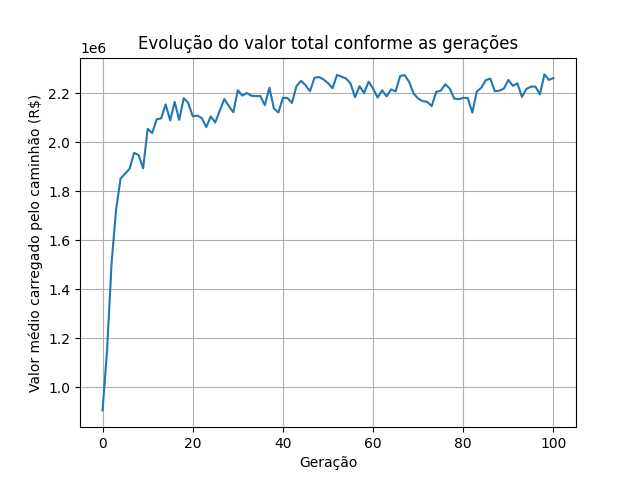
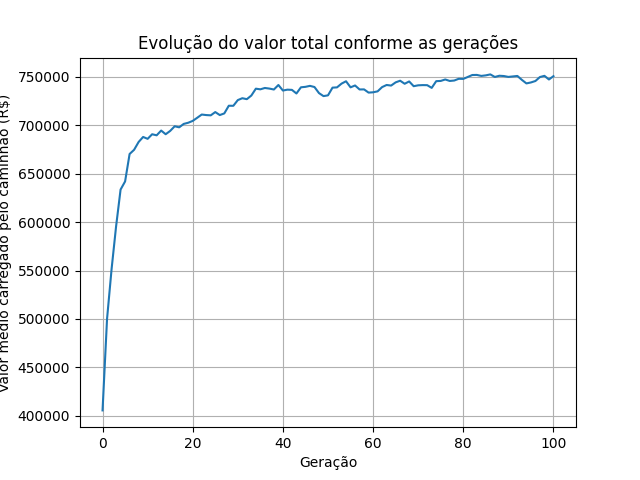
Melhorias

diff --git a/tabela_valortotal.html b/tabela_valortotal.html
@@ -1,1 +1,1 @@
-<script src="https://cdn.jsdelivr.net/npm/bootstrap@5.0.1/dist/js/bootstrap.bundle.min.js" integrity="sha384-gtEjrD/SeCtmISkJkNUaaKMoLD0//ElJ19smozuHV6z3Iehds+3Ulb9Bn9Plx0x4" crossorigin="anonymous"></script><link href="https://cdn.jsdelivr.net/npm/bootstrap@5.0.1/dist/css/bootstrap.min.css" rel="stylesheet" integrity="sha384-+0n0xVW2eSR5OomGNYDnhzAbDsOXxcvSN1TPprVMTNDbiYZCxYbOOl7+AMvyTG2x" crossorigin="anonymous"><table style="width: 100%;"><thead><tr><th>Valor Total da Carga</th></tr></thead><tbody><tr><td>R$ 2.310.000,00</td></tr></tbody></table>
+<script src="https://cdn.jsdelivr.net/npm/bootstrap@5.0.1/dist/js/bootstrap.bundle.min.js" integrity="sha384-gtEjrD/SeCtmISkJkNUaaKMoLD0//ElJ19smozuHV6z3Iehds+3Ulb9Bn9Plx0x4" crossorigin="anonymous"></script><link href="https://cdn.jsdelivr.net/npm/bootstrap@5.0.1/dist/css/bootstrap.min.css" rel="stylesheet" integrity="sha384-+0n0xVW2eSR5OomGNYDnhzAbDsOXxcvSN1TPprVMTNDbiYZCxYbOOl7+AMvyTG2x" crossorigin="anonymous"><table style="width: 100%;"><thead><tr><th>Valor Total da Carga</th><th>Peso Total da Carga:</th></tr></thead><tbody><tr><td>R$ 769.035,00</td><td>3778.3</td></tr></tbody></table>

diff --git a/auxiliar.py b/auxiliar.py
@@ -6,13 +6,30 @@ import locale
 def instanciaItens() -> list:
     itens = []
 
-    itens.append(Item(nome="Escultura leao", peso=400, valor=1))
-    itens.append(Item(nome="Escultura cisne", peso=700, valor=10000))
-    itens.append(Item(nome="Escultura cristo", peso=2000, valor=500000))
-    itens.append(Item(nome="Escultura cristo menor", peso=1000, valor=300000))
-    itens.append(Item(nome="Escultura teste", peso=2000, valor=1000000))
-    itens.append(Item(nome="Escultura vinicius finger", peso=100, valor=500000))
-    itens.append(Item(nome="Escultura vinicius finger 2", peso=100, valor=500000))
+    itens.append(Item(nome="Cadeira", peso=15, valor=1500))
+    itens.append(Item(nome="Celular top", peso=0.8, valor=8700))
+    itens.append(Item(nome="Notebook", peso=3, valor=4000))
+    itens.append(Item(nome="Piano Yamaha", peso=250, valor=250000))
+    itens.append(Item(nome="Piano Roch", peso=250, valor=250000))
+    itens.append(Item(nome="Televisão 50 pol.", peso=12, valor=3000))
+    itens.append(Item(nome="Televisão 22 pol.", peso=8, valor=999))
+    itens.append(Item(nome="Cama king", peso=100, valor=20000))
+    itens.append(Item(nome="Sofá", peso=120, valor=7000))
+    itens.append(Item(nome="Kit academia", peso=500, valor=15000))
+    itens.append(Item(nome="Escultura de gesso", peso=500, valor=10000))
+    itens.append(Item(nome="Escultura Tigresa", peso=300, valor=87000))
+    itens.append(Item(nome="Escultura de mármore", peso=700, valor=90000))
+    itens.append(Item(nome="Geladeira top", peso=125, valor=10000))
+    itens.append(Item(nome="Geladeira", peso=90, valor=2500))
+    itens.append(Item(nome="Freezer", peso=90, valor=3500))
+    itens.append(Item(nome="Fogão a lenha n3", peso=100, valor=3500))
+    itens.append(Item(nome="Esteira", peso=130, valor=2500))
+    itens.append(Item(nome="Mesa tampo de mármore 6 cadeiras", peso=100, valor=8000))
+    itens.append(Item(nome="Livro", peso=0.3, valor=35))
+    itens.append(Item(nome="Jogo 4 pneus", peso=45, valor=2500))
+    itens.append(Item(nome="Quadro", peso=45, valor=5000))
+    itens.append(Item(nome="Kit anilhas", peso=450, valor=2000))
+
 
     return itens
 
@@ -82,7 +99,9 @@ def processaTabelaHtmlItensIndividuo(individuo, itens):
     html_file.write(tabelaHtml)
     html_file.close()
 
-    objValorTotal = [{"Valor Total da Carga": locale.currency(valorTotal, grouping=True)}]
+    objValorTotal = [{"Valor Total da Carga": locale.currency(valorTotal, grouping=True),
+                      "Peso Total da Carga:": round(pesoTotal, 2)
+                    }]
     
     html_file = open("tabela_valortotal.html","w")
     tabelaHtmlValorTotal = '<script src="https://cdn.jsdelivr.net/npm/bootstrap@5.0.1/dist/js/bootstrap.bundle.min.js" integrity="sha384-gtEjrD/SeCtmISkJkNUaaKMoLD0//ElJ19smozuHV6z3Iehds+3Ulb9Bn9Plx0x4" crossorigin="anonymous"></script>'

diff --git a/genetica.py b/genetica.py
@@ -50,10 +50,11 @@ def evoluiPopulacao(populacao, capacidadeDeCarga, itens, numeroDeIndividuos, mut
         meioDoCromossomo = len(pai) // 2
 
         #Filho vai ser a primeira metade do pai + a primeira metade da mãe
-        filho = pai[:meioDoCromossomo] + mae [meioDoCromossomo:]
+        filho = pai[:meioDoCromossomo] + mae[meioDoCromossomo:]
         filhos.append(filho)
 
-    #Faz a mutação em um cromossomo do indivíduo
+    '''Há 5% de chance (definido no parâmetro "mutacao" do método)
+    de fazer uma mutação em um cromossomo do indivíduo'''
     for filho in filhos:
         if mutacao > random():
             cromossomoASerMutado = randint(0, len(filho)-1)
@@ -75,6 +76,7 @@ def sorteiaPais(pais):
         acumulado = 0
         valorSorteado = random()
 
+        #fitness total ignora o indivíduo pai, se já houver
         if indiceIgnorado != -1:
             fitnessTotal -= valores[0][indiceIgnorado]        
         

diff --git a/configs.py b/configs.py
@@ -1,8 +1,8 @@
 from auxiliar import instanciaItens, geraTabelaConfiguracoes
 
 capacidadeDeCarga = 4000 #kg
-numeroDeIndividuos = 100
-geracoes = 10
+numeroDeIndividuos = 150
+geracoes = 100
 itens = instanciaItens() #Instancia os itens disponíveis para serem carregados
 numeroDeItens = len(itens)
 
